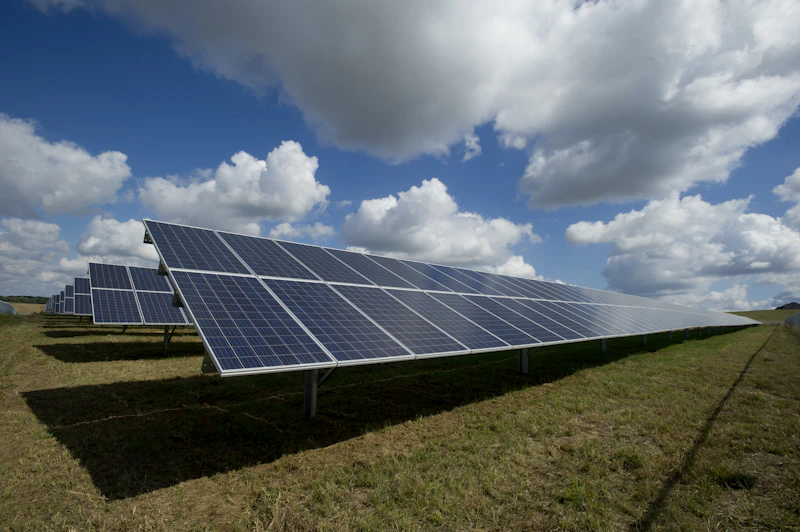
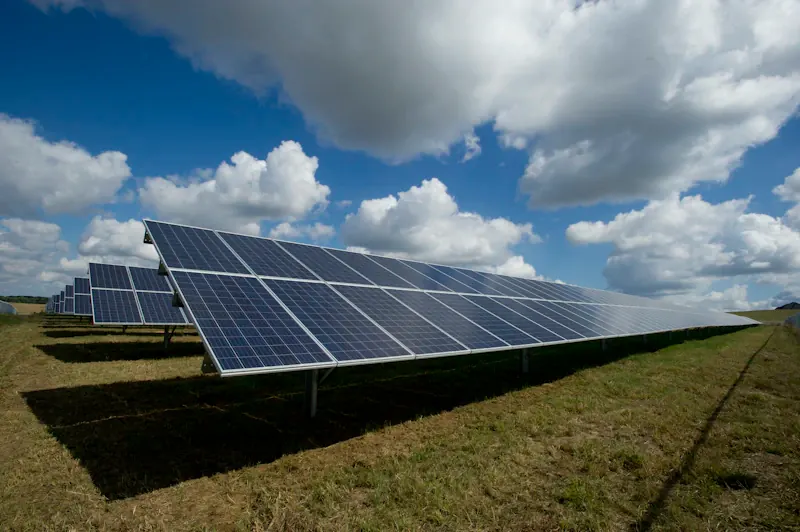
fix production SEO tracking and delivery

Changed region(s): [[0.0, 0.0, 0.5312, 0.391], [0.5625, 0.2406, 0.6562, 0.391]]

diff --git a/src/components/Portfolio.tsx b/src/components/Portfolio.tsx
@@ -5,6 +5,7 @@ const portfolioItems = [
     title: "The Modern Restaurant Experience",
     description: "A visual-first design crafted for cafes and restaurants. Features a mobile-perfect, readable menu and seamless integration with your table booking system.",
     image: "/assets/images/portfolio-1.webp",
+    imageSmall: "/assets/images/portfolio-1-400.webp",
     reverse: false,
     link: "https://showcase1.wyedesign.co.uk"
   },
@@ -12,13 +13,15 @@ const portfolioItems = [
     title: "Lumina Energy",
     description: "A bold, conversion-focused site built for an energy company offering solar panels, micro hydro systems, and battery storage. Guides visitors from interest to instant quote in seconds. A great example of a modern, effective trade site.",
     image: "/assets/images/portfolio-2.webp",
+    imageSmall: "/assets/images/portfolio-2-400.webp",
     reverse: true,
     link: "https://showcase2.wyedesign.co.uk"
   },
   {
     title: "ClearView Window Cleaning",
     description: "A clean, trustworthy design for a local window cleaning business. Features easy quote requests, service areas, and customer testimonials to build local authority.",
-    image: "/assets/images/portfolio-3.jpg",
+    image: "/assets/images/portfolio-3.webp",
+    imageSmall: "/assets/images/portfolio-3-400.webp",
     reverse: false,
     link: "https://showcase3.wyedesign.co.uk"
   }
@@ -46,7 +49,11 @@ export default function Portfolio() {
                   <div className="w-full h-full rounded-t-lg overflow-hidden relative border-x border-t border-theme-bg-gray">
                     <img 
                       src={item.image} 
+                      srcSet={`${item.imageSmall} 400w, ${item.image} 800w`}
+                      sizes="(min-width: 1280px) 592px, (min-width: 1024px) calc(50vw - 72px), calc(100vw - 48px)"
                       alt={item.title} 
+                      width={800}
+                      height={533}
                       loading="lazy"
                       decoding="async"
                       className="w-full h-full object-cover transition-transform duration-700 group-hover:scale-105"

diff --git a/src/app/layout.tsx b/src/app/layout.tsx
@@ -36,9 +36,9 @@ export const metadata: Metadata = {
     description: siteConfig.description,
     images: [
       {
-        url: "/og.png",
-        width: 1672,
-        height: 941,
+        url: "/og.jpg",
+        width: 1200,
+        height: 630,
         alt: "Wye Design — Custom web design for Hereford businesses",
       },
     ],
@@ -47,7 +47,7 @@ export const metadata: Metadata = {
     card: "summary_large_image",
     title: "Web Design Hereford for Trades & Small Businesses | Wye Design",
     description: siteConfig.description,
-    images: ["/og.png"],
+    images: ["/og.jpg"],
   },
   verification: process.env.NEXT_PUBLIC_GOOGLE_SITE_VERIFICATION
     ? { google: process.env.NEXT_PUBLIC_GOOGLE_SITE_VERIFICATION }
@@ -74,8 +74,25 @@ export default function RootLayout({
                 name: siteConfig.name,
                 url: siteConfig.url,
                 logo: absoluteUrl("/favicon.svg"),
+                image: absoluteUrl("/og.jpg"),
                 email: siteConfig.email,
-                areaServed: ["Hereford", "Herefordshire"],
+                contactPoint: {
+                  "@type": "ContactPoint",
+                  contactType: "sales",
+                  email: siteConfig.email,
+                  areaServed: "GB",
+                  availableLanguage: "English",
+                },
+                areaServed: [
+                  { "@type": "City", name: "Hereford" },
+                  { "@type": "AdministrativeArea", name: "Herefordshire" },
+                ],
+                knowsAbout: [
+                  "Web design",
+                  "Small business websites",
+                  "Trade business websites",
+                  "Website hosting and maintenance",
+                ],
                 description: siteConfig.description,
               },
               {
@@ -84,6 +101,7 @@ export default function RootLayout({
                 name: siteConfig.name,
                 url: siteConfig.url,
                 publisher: { "@id": absoluteUrl("/#organization") },
+                inLanguage: "en-GB",
               },
             ],
           }}

diff --git a/src/components/ServicePage.tsx b/src/components/ServicePage.tsx
@@ -57,15 +57,54 @@ export default function ServicePage({
       <StructuredData
         data={{
           "@context": "https://schema.org",
-          "@type": "Service",
-          name: serviceName,
-          serviceType: serviceName,
-          provider: {
-            "@id": absoluteUrl("/#organization"),
-          },
-          areaServed: ["Hereford", "Herefordshire"],
-          url: absoluteUrl(path),
-          description: intro,
+          "@graph": [
+            {
+              "@type": "Service",
+              "@id": absoluteUrl(`${path}#service`),
+              name: serviceName,
+              serviceType: serviceName,
+              provider: {
+                "@id": absoluteUrl("/#organization"),
+              },
+              areaServed: [
+                { "@type": "City", name: "Hereford" },
+                { "@type": "AdministrativeArea", name: "Herefordshire" },
+              ],
+              url: absoluteUrl(path),
+              mainEntityOfPage: absoluteUrl(path),
+              description: intro,
+            },
+            {
+              "@type": "FAQPage",
+              "@id": absoluteUrl(`${path}#faq`),
+              mainEntity: questions.map((item) => ({
+                "@type": "Question",
+                name: item.question,
+                acceptedAnswer: {
+                  "@type": "Answer",
+                  text: item.answer,
+                },
+              })),
+            },
+            {
+              "@type": "BreadcrumbList",
+              "@id": absoluteUrl(`${path}#breadcrumb`),
+              itemListElement: [
+                {
+                  "@type": "ListItem",
+                  position: 1,
+                  name: "Home",
+                  item: absoluteUrl("/"),
+                },
+                {
+                  "@type": "ListItem",
+                  position: 2,
+                  name: serviceName,
+                  item: absoluteUrl(path),
+                },
+              ],
+            },
+          ],
         }}
       />
       <PageHero eyebrow={eyebrow} title={title} intro={intro}>

diff --git a/src/app/sitemap.ts b/src/app/sitemap.ts
@@ -1,24 +1,27 @@
 import type { MetadataRoute } from "next";
 import { absoluteUrl } from "../lib/site";
 
-const paths = [
-  "",
-  "/web-design-hereford",
-  "/websites-for-trades",
-  "/small-business-web-design",
-  "/website-hosting-maintenance",
-  "/work",
-  "/pricing",
-  "/about",
-  "/contact",
-  "/privacy-policy",
-  "/terms",
-];
+const lastModified = new Date("2026-08-11T00:00:00.000Z");
+
+const pages = [
+  { path: "", changeFrequency: "weekly", priority: 1 },
+  { path: "/web-design-hereford", changeFrequency: "monthly", priority: 0.9 },
+  { path: "/websites-for-trades", changeFrequency: "monthly", priority: 0.8 },
+  { path: "/small-business-web-design", changeFrequency: "monthly", priority: 0.8 },
+  { path: "/website-hosting-maintenance", changeFrequency: "monthly", priority: 0.8 },
+  { path: "/work", changeFrequency: "monthly", priority: 0.8 },
+  { path: "/pricing", changeFrequency: "monthly", priority: 0.8 },
+  { path: "/about", changeFrequency: "yearly", priority: 0.6 },
+  { path: "/contact", changeFrequency: "yearly", priority: 0.8 },
+  { path: "/privacy-policy", changeFrequency: "yearly", priority: 0.3 },
+  { path: "/terms", changeFrequency: "yearly", priority: 0.3 },
+] as const;
 
 export default function sitemap(): MetadataRoute.Sitemap {
-  return paths.map((path) => ({
+  return pages.map(({ path, changeFrequency, priority }) => ({
     url: absoluteUrl(path),
-    changeFrequency: path === "" ? "weekly" : "monthly",
-    priority: path === "" ? 1 : path === "/contact" || path === "/web-design-hereford" ? 0.9 : 0.7,
+    lastModified,
+    changeFrequency,
+    priority,
   }));
 }

diff --git a/src/middleware.ts b/src/middleware.ts
@@ -2,21 +2,46 @@ import { NextRequest, NextResponse } from "next/server";
 
 const preferredHost = "wyedesign.co.uk";
 const alternateHost = `www.${preferredHost}`;
+const cacheablePages = new Set([
+  "/",
+  "/about",
+  "/contact",
+  "/pricing",
+  "/privacy-policy",
+  "/small-business-web-design",
+  "/terms",
+  "/web-design-hereford",
+  "/website-hosting-maintenance",
+  "/websites-for-trades",
+  "/work",
+]);
 
 export function middleware(request: NextRequest) {
   const host = (request.headers.get("x-forwarded-host") ?? request.headers.get("host") ?? "")
     .split(":")[0]
     .toLowerCase();
+  const forwardedProtocol = request.headers.get("x-forwarded-proto")?.split(",")[0].trim();
+  const isHttp = forwardedProtocol ? forwardedProtocol === "http" : request.nextUrl.protocol === "http:";
 
-  if (host !== alternateHost) {
-    return NextResponse.next();
+  if (host === alternateHost || isHttp) {
+    const destination = `https://${preferredHost}${request.nextUrl.pathname}${request.nextUrl.search}`;
+
+    return NextResponse.redirect(destination, 301);
   }
 
-  const destination = request.nextUrl.clone();
-  destination.protocol = "https:";
-  destination.host = preferredHost;
+  const response = NextResponse.next();
 
-  return NextResponse.redirect(destination, 301);
+  if (
+    (request.method === "GET" || request.method === "HEAD") &&
+    cacheablePages.has(request.nextUrl.pathname)
+  ) {
+    response.headers.set(
+      "Cache-Control",
+      "public, max-age=0, no-cache, must-revalidate",
+    );
+  }
+
+  return response;
 }
 
 export const config = {

diff --git a/src/components/Analytics.tsx b/src/components/Analytics.tsx
@@ -29,6 +29,31 @@ export default function Analytics() {
     }
   }, []);
 
+  useEffect(() => {
+    const trackConversionClick = (event: MouseEvent) => {
+      const target = event.target;
+      if (!(target instanceof Element)) return;
+
+      const link = target.closest("a");
+      if (!(link instanceof HTMLAnchorElement)) return;
+
+      const url = new URL(link.href, window.location.href);
+      const location = `${window.location.pathname}${window.location.hash}`;
+
+      if (url.protocol === "mailto:") {
+        trackEvent("contact_email_click", { location });
+      } else if (url.origin === window.location.origin && url.pathname === "/contact") {
+        trackEvent("contact_cta_click", {
+          location,
+          destination: `${url.pathname}${url.hash}`,
+        });
+      }
+    };
+
+    document.addEventListener("click", trackConversionClick);
+    return () => document.removeEventListener("click", trackConversionClick);
+  }, []);
+
   if (!measurementId) {
     return null;
   }

diff --git a/src/lib/site.ts b/src/lib/site.ts
@@ -25,13 +25,26 @@ export function pageMetadata(title: string, description: string, path: string) {
     description,
     alternates: { canonical: path },
     openGraph: {
+      type: "website",
+      locale: "en_GB",
+      siteName: siteConfig.name,
       title: `${title} | ${siteConfig.name}`,
       description,
       url: path,
+      images: [
+        {
+          url: "/og.jpg",
+          width: 1200,
+          height: 630,
+          alt: "Wye Design — Custom web design for Hereford businesses",
+        },
+      ],
     },
     twitter: {
+      card: "summary_large_image",
       title: `${title} | ${siteConfig.name}`,
       description,
+      images: ["/og.jpg"],
     },
   };
 }

diff --git a/src/components/EmailLink.tsx b/src/components/EmailLink.tsx
@@ -1,7 +1,6 @@
 "use client";
 
 import type { ReactNode } from "react";
-import { trackEvent } from "./Analytics";
 
 type EmailLinkProps = {
   className?: string;
@@ -13,7 +12,6 @@ export default function EmailLink({ className, children }: EmailLinkProps) {
     <a
       className={className}
       href="mailto:hello@wyedesign.co.uk"
-      onClick={() => trackEvent("contact_email_click", { location: "contact_page" })}
     >
       {children}
     </a>

diff --git a/src/app/not-found.tsx b/src/app/not-found.tsx
@@ -1,5 +1,18 @@
+import type { Metadata } from "next";
 import Link from "next/link";
 import SiteFrame from "../components/SiteFrame";
+
+export const metadata: Metadata = {
+  title: "Page not found",
+  description: "The requested page could not be found on the Wye Design website.",
+  alternates: {
+    canonical: null,
+  },
+  robots: {
+    index: false,
+    follow: false,
+  },
+};
 
 export default function NotFound() {
   return (

diff --git a/open-next.config.ts b/open-next.config.ts
@@ -6,5 +6,5 @@ import staticAssetsIncrementalCache from "@opennextjs/cloudflare/overrides/incre
 // binding is necessary.
 export default defineCloudflareConfig({
   incrementalCache: staticAssetsIncrementalCache,
-  enableCacheInterception: true,
+  enableCacheInterception: false,
 });

diff --git a/src/app/globals.css b/src/app/globals.css
@@ -45,4 +45,8 @@
   .prose a {
     @apply text-theme-accent underline underline-offset-4;
   }
+
+  #proposal {
+    scroll-margin-top: 7rem;
+  }
 }

diff --git a/README.md b/README.md
@@ -34,7 +34,7 @@ Add a Resend API key to `.env.local` to test form delivery locally. Never commit
    npm run deploy
    ```
 
-4. In the Cloudflare dashboard, open **Workers & Pages > wyevalley > Settings > Domains & Routes** and attach both `wyedesign.co.uk` and `www.wyedesign.co.uk`. The app permanently redirects the `www` hostname to `https://wyedesign.co.uk`.
+4. In the Cloudflare dashboard, open **Workers & Pages > wyevalley > Settings > Domains & Routes** and attach both `wyedesign.co.uk` and `www.wyedesign.co.uk`. The app permanently redirects HTTP and the `www` hostname to `https://wyedesign.co.uk`, preserving the path and query string.
 
 5. In Resend, verify `wyedesign.co.uk`. The app sends from and delivers enquiries to `hello@wyedesign.co.uk`.
 
